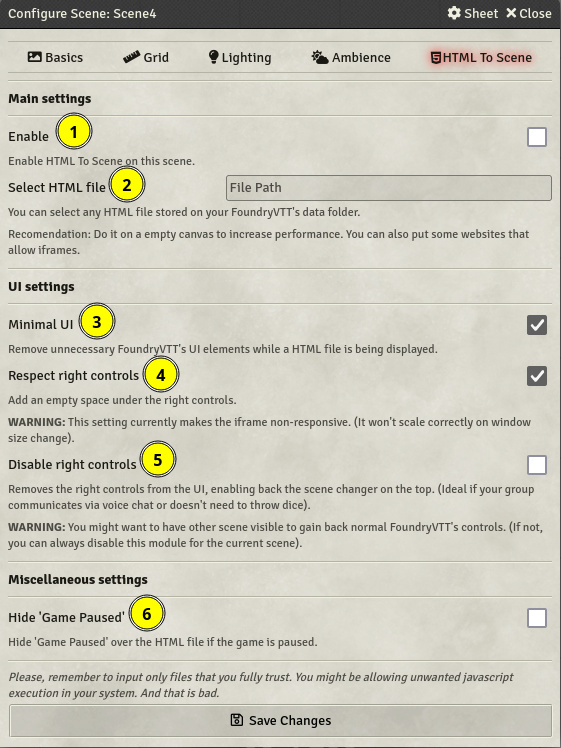
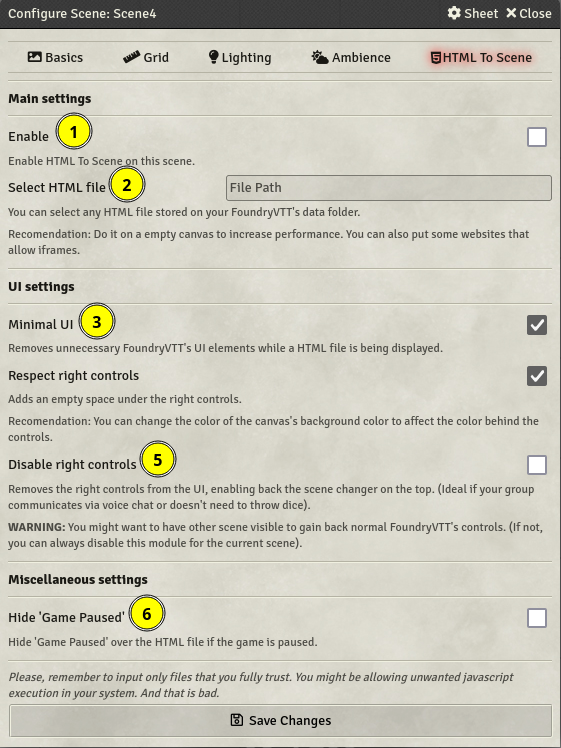
Made all features responsive.

Changed region(s): [[0.0, 0.4612, 0.9697, 0.615]]

diff --git a/scripts/core.js b/scripts/core.js
@@ -75,15 +75,9 @@ class HTMLToScene {
 
 		var canvasHeight = '100%';
 		var canvasWidth;
-		var widthUImod = 0;
 
 		if (this.spaceRight == true) {
-			var rightControlsElement = document.getElementById('ui-right');
-			widthUImod = '' + rightControlsElement.offsetWidth;
-			canvasWidth =
-				(window.innerWidth ||
-					document.documentElement.clientWidth ||
-					document.body.clientWidth) - widthUImod; //Non responsive solution
+			canvasWidth = this.calcSpacedWidth() + 'px'; //Non responsive solution, made responsive in the canvasPan hook.
 		} else {
 			canvasWidth = '100%'; //Responsive
 		}
@@ -156,6 +150,29 @@ class HTMLToScene {
 		$('#ui-top').css({ display: 'inline-block', 'margin-left': '-90px' }); //Default FoundryVTT value
 		$('#ui-right').css('display', 'flex');
 		$('#pause').show();
+	}
+
+	/**
+	 *
+	 * @returns Width of the screen in pixels minus the width of the right controls
+	 */
+	static calcSpacedWidth() {
+		let rightControlsElement = document.getElementById('ui-right');
+		let widthUImod = '' + rightControlsElement.offsetWidth;
+		return (
+			(window.innerWidth ||
+				document.documentElement.clientWidth ||
+				document.body.clientWidth) - widthUImod
+		);
+	}
+
+	/**
+	 * Updates iframe's width in the only case where it isn't responsive on the canvasPan hook (Triggered on a window size change).
+	 */
+	static updateWidth() {
+		if (this.enabled && this.spaceRight) {
+			$('#htmltoiframe').width(this.calcSpacedWidth());
+		}
 	}
 
 	/**
@@ -245,3 +262,4 @@ Hooks.on('renderSceneConfig', (...args) =>
 );
 Hooks.on('canvasReady', (...args) => HTMLToScene.replace(...args));
 Hooks.on('updateScene', (...args) => HTMLToScene.replace(...args));
+Hooks.on('canvasPan', () => HTMLToScene.updateWidth());

diff --git a/templates/sceneSettings.html b/templates/sceneSettings.html
@@ -28,7 +28,7 @@
 		<label>{{ localize "htmltoscene.spaceRight.name" }}</label>
 		<input type="checkbox" name="flags.htmltoscene.spaceRight" data-dtype="Boolean" {{#if spaceRight}} checked{{/if}}>
 		<p class="notes">{{ localize "htmltoscene.spaceRight.desc" }}</p>
-		<p class="notes"><b>{{ localize "htmltoscene.warningtip" }}</b>{{ localize "htmltoscene.spaceRight.tip" }}</p>
+		<p class="notes">{{ localize "htmltoscene.recommendationtip" }}{{ localize "htmltoscene.spaceRight.tip" }}</p>
 	</div>
 	<div class="form-group">
 		<label>{{ localize "htmltoscene.rightDisabled.name" }}</label>
